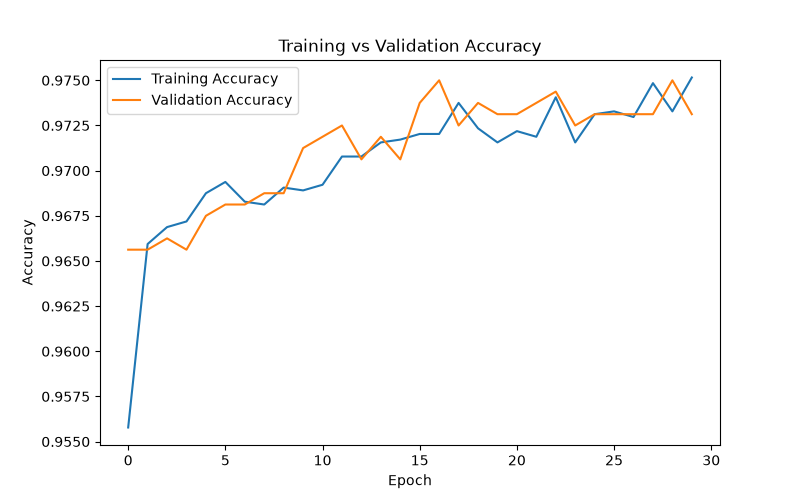
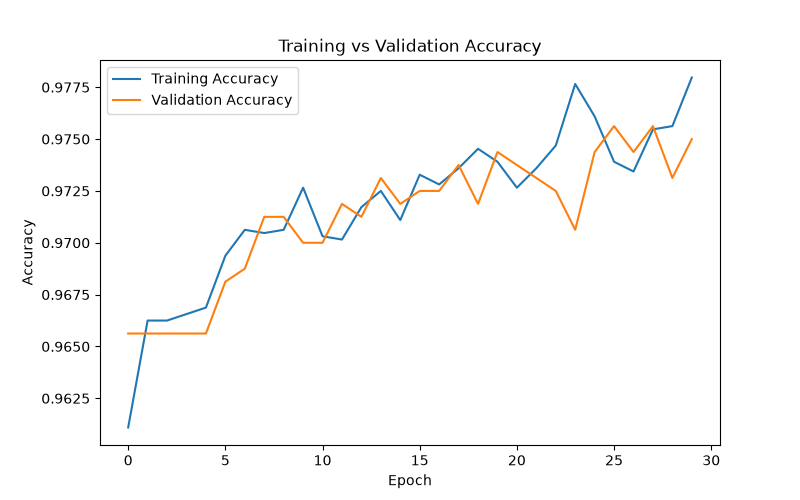
feat: implement interactive prediction workflow and update trained ANN model

diff --git a/src/predict.py b/src/predict.py
@@ -1,0 +1,138 @@
+import joblib
+import pandas as pd
+from tensorflow.keras.models import load_model
+
+
+# ==========================================================
+# Load Saved Model and Scaler
+# ==========================================================
+
+def load_prediction_assets():
+    """
+    Load the trained ANN model and fitted scaler.
+    """
+
+    model = load_model("saved_models/predictive_maintenance_ann.keras")
+    scaler = joblib.load("saved_models/scaler.pkl")
+
+    return model, scaler
+
+
+# ==========================================================
+# Create Sample Machine Data
+# ==========================================================
+
+def create_sample_data():
+    """
+    Take machine details from the user.
+    """
+
+    print("\n" + "=" * 70)
+    print("ENTER MACHINE DETAILS")
+    print("=" * 70)
+
+    air_temp = float(input("Air Temperature (K): "))
+    process_temp = float(input("Process Temperature (K): "))
+    rpm = int(input("Rotational Speed (rpm): "))
+    torque = float(input("Torque (Nm): "))
+    tool_wear = int(input("Tool Wear (min): "))
+
+    machine_type = input("Machine Type (L/M/H): ").upper()
+
+    # One-Hot Encoding for Machine Type
+
+    type_l = 0
+    type_m = 0
+    type_h = 0
+
+    if machine_type == "L":
+        type_l = 1
+
+    elif machine_type == "M":
+        type_m = 1
+
+    elif machine_type == "H":
+        type_h = 1
+
+    else:
+        print("\nInvalid Machine Type!")
+        return None
+
+    sample_data = pd.DataFrame({
+
+        "Air temperature [K]": [air_temp],
+        "Process temperature [K]": [process_temp],
+        "Rotational speed [rpm]": [rpm],
+        "Torque [Nm]": [torque],
+        "Tool wear [min]": [tool_wear],
+
+        "Type_L": [type_l],
+        "Type_M": [type_m],
+        "Type_H": [type_h]
+
+    })
+
+    return sample_data
+
+
+# ==========================================================
+# Predict Machine Failure
+# ==========================================================
+
+def predict_failure():
+
+    # Load Model & Scaler
+    model, scaler = load_prediction_assets()
+
+    print("\n" + "=" * 70)
+    print("MODEL AND SCALER LOADED SUCCESSFULLY")
+    print("=" * 70)
+
+    # Sample Input
+    sample_data = create_sample_data()
+
+    if sample_data is None:
+        return
+
+    print("\n" + "=" * 70)
+    print("NEW MACHINE DATA")
+    print("=" * 70)
+
+    print(sample_data)
+
+    # Numerical Columns
+    numerical_columns = [
+        "Air temperature [K]",
+        "Process temperature [K]",
+        "Rotational speed [rpm]",
+        "Torque [Nm]",
+        "Tool wear [min]"
+    ]
+
+    # Scale Features
+    scaled_sample = sample_data.copy()
+
+    scaled_sample[numerical_columns] = scaler.transform(
+        scaled_sample[numerical_columns]
+    )
+
+    print("\n" + "=" * 70)
+    print("SCALED MACHINE DATA")
+    print("=" * 70)
+
+    print(scaled_sample)
+
+    # Prediction
+    prediction = model.predict(scaled_sample)
+
+    print("\n" + "=" * 70)
+    print("FAILURE PROBABILITY")
+    print("=" * 70)
+
+    print(f"Failure Probability : {prediction[0][0]:.4f}")
+
+    # Final Decision
+    if prediction[0][0] >= 0.5:
+        print("\nPrediction : MACHINE FAILURE")
+    else:
+        print("\nPrediction : NO MACHINE FAILURE")

diff --git a/main.py b/main.py
@@ -1,31 +1,54 @@
 import os
 import joblib
 import matplotlib.pyplot as plt
+
 from src.data_loader import load_dataset
 from src.preprocessing import preprocess_data
 from src.train import split_data, scale_features, train_model
 from src.model import build_model
 from src.evaluate import evaluate_model
+from src.predict import predict_failure
 
 
-def main():
+def train_pipeline():
+    """
+    Complete ANN Training Pipeline
+    """
 
-    # load dataset
+    # ==========================================================
+    # Load Dataset
+    # ==========================================================
+
     df = load_dataset()
 
-    # preprocess dataset
+    # ==========================================================
+    # Data Preprocessing
+    # ==========================================================
+
     X, y = preprocess_data(df)
 
-    # data  split
+    # ==========================================================
+    # Train-Test Split
+    # ==========================================================
+
     X_train, X_test, y_train, y_test = split_data(X, y)
 
-    # feature scaling
+    # ==========================================================
+    # Feature Scaling
+    # ==========================================================
+
     X_train, X_test, scaler = scale_features(X_train, X_test)
 
+    # ==========================================================
+    # Build ANN Model
+    # ==========================================================
 
     model = build_model(input_dim=X_train.shape[1])
 
-    # train ANN
+    # ==========================================================
+    # Train ANN Model
+    # ==========================================================
+
     history = train_model(
         model,
         X_train,
@@ -70,13 +93,14 @@ def main():
 
     plt.show()
 
-    # saved model and scaler
+    # ==========================================================
+    # Save Model and Scaler
+    # ==========================================================
+
     os.makedirs("saved_models", exist_ok=True)
 
-    # Save trained ANN model
     model.save("saved_models/predictive_maintenance_ann.keras")
 
-    # Save fitted StandardScaler
     joblib.dump(
         scaler,
         "saved_models/scaler.pkl"
@@ -88,11 +112,39 @@ def main():
     print("ANN Model : saved_models/predictive_maintenance_ann.keras")
     print("Scaler    : saved_models/scaler.pkl")
 
-    y_pred = evaluate_model(
+    # ==========================================================
+    # Evaluate Model
+    # ==========================================================
+
+    evaluate_model(
         model,
         X_test,
         y_test
-    ) # evaluate model
+    )
+
+def main():
+
+    print("\n" + "=" * 70)
+    print("      PREDICTIVE MAINTENANCE USING ANN")
+    print("=" * 70)
+
+    print("1. Train New ANN Model")
+    print("2. Predict Machine Failure")
+    print("3. Exit")
+
+    choice = input("\nEnter your choice (1-3): ")
+
+    if choice == "1":
+        train_pipeline()
+
+    elif choice == "2":
+        predict_failure()
+
+    elif choice == "3":
+        print("\nThank you for using Predictive Maintenance ANN.")
+
+    else:
+        print("\nInvalid Choice! Please run the program again.")
 
 
 if __name__ == "__main__":
